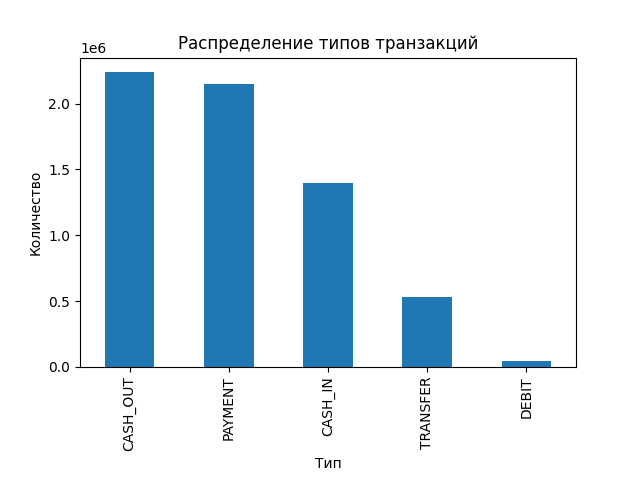
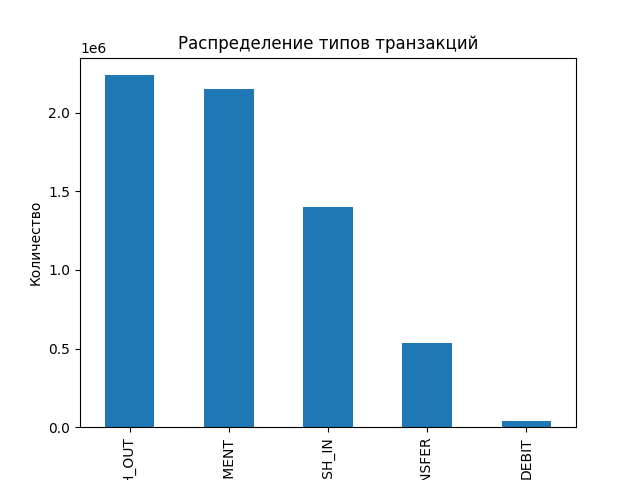
1 finished

diff --git a/TableDataSet/paysim_analysis.py b/TableDataSet/paysim_analysis.py
@@ -4,34 +4,25 @@ import matplotlib.pyplot as plt
 import seaborn as sns
 
 
-# -----------------------------
-# 1. Загрузка данных
-# -----------------------------
 def load_data(path):
     df = pd.read_csv(path)
     print("Размер датасета:", df.shape)
     return df
 
 
-# -----------------------------
-# 2. Статистика (сохранение)
-# -----------------------------
 def statistical_analysis(df):
     stats = df.describe()
-    stats.to_csv("tables/statistics.csv")
+    stats.to_csv("tables/statistics.csv", sep=';')
 
     type_counts = df['type'].value_counts()
-    type_counts.to_csv("tables/type_counts.csv")
+    type_counts.to_csv("tables/type_counts.csv", sep=';')
 
     type_ratio = df['type'].value_counts(normalize=True)
-    type_ratio.to_csv("tables/type_ratio.csv")
+    type_ratio.to_csv("tables/type_ratio.csv", sep=';')
 
     print("\nСтатистика сохранена в tables/")
 
 
-# -----------------------------
-# 3. Распределения (Рисунок 1)
-# -----------------------------
 def plot_feature_distributions(df):
     numeric_cols = [
         'amount',
@@ -53,9 +44,6 @@ def plot_feature_distributions(df):
     plt.show()
 
 
-# -----------------------------
-# 4. Признаки (Рисунок 2)
-# -----------------------------
 def plot_feature_relationships(df):
     # Bar chart
     plt.figure()
@@ -74,9 +62,6 @@ def plot_feature_relationships(df):
     plt.show()
 
 
-# -----------------------------
-# 5. Пропуски (таблица)
-# -----------------------------
 def analyze_missing_values(df):
     missing = df.isnull().sum()
     missing_percent = (missing / len(df)) * 100
@@ -86,19 +71,16 @@ def analyze_missing_values(df):
         'missing_percent': missing_percent
     })
 
-    missing_table.to_csv("tables/missing_values.csv")
+    missing_table.to_csv("tables/missing_values.csv", sep=';')
 
     print("\nТаблица пропусков сохранена")
 
 
-# -----------------------------
-# 6. Корреляция (Рисунок 3)
-# -----------------------------
 def correlation_analysis(df):
     numeric_df = df.select_dtypes(include=['int64', 'float64'])
     corr = numeric_df.corr()
 
-    corr.to_csv("tables/correlation_matrix.csv")
+    corr.to_csv("tables/correlation_matrix.csv", sep=';')
 
     plt.figure(figsize=(10, 6))
     sns.heatmap(corr, annot=True, fmt=".2f")
@@ -107,9 +89,6 @@ def correlation_analysis(df):
     plt.show()
 
 
-# -----------------------------
-# 7. Дубликаты
-# -----------------------------
 def remove_duplicates(df):
     duplicates = df.duplicated().sum()
 
@@ -121,58 +100,47 @@ def remove_duplicates(df):
     return df.drop_duplicates()
 
 
-# -----------------------------
-# 8. Выбросы
-# -----------------------------
 def analyze_outliers(df):
-    plt.figure()
-    plt.boxplot(df['amount'])
-    plt.title('Выбросы amount')
+    numeric_cols = [
+        'amount',
+        'oldbalanceOrg',
+        'newbalanceOrig',
+        'oldbalanceDest',
+        'newbalanceDest'
+    ]
+
+    plt.figure(figsize=(12, 8))
+
+    for i, col in enumerate(numeric_cols, 1):
+        plt.subplot(3, 2, i)
+        plt.boxplot(df[col])
+        plt.title(f'Выбросы {col}')
+
+    plt.tight_layout()
     plt.savefig("plots/figure_4_outliers.png")
     plt.show()
 
-    Q1 = df['amount'].quantile(0.25)
-    Q3 = df['amount'].quantile(0.75)
-    IQR = Q3 - Q1
 
-    outlier_info = pd.DataFrame({
-        'Q1': [Q1],
-        'Q3': [Q3],
-        'IQR': [IQR]
-    })
-
-    outlier_info.to_csv("tables/outliers_info.csv", index=False)
-
-
-# -----------------------------
-# 9. Фильтрация
-# -----------------------------
 def filter_data(df):
     df = df[df['type'].isin(['PAYMENT', 'TRANSFER', 'CASH_OUT'])]
     df = df.drop(['nameOrig', 'nameDest'], axis=1)
 
-    df['type'].value_counts().to_csv("tables/filtered_type_counts.csv")
+    df['type'].value_counts().to_csv("tables/filtered_type_counts.csv", sep=';')
 
     print("\nПосле фильтрации сохранено распределение классов")
 
     return df
 
 
-# -----------------------------
-# 10. Добавление шума
-# -----------------------------
 def add_noise(df):
     noise = np.random.normal(0, 0.01, size=len(df))
     df['amount_noisy'] = df['amount'] * (1 + noise)
 
-    df.head(100).to_csv("tables/sample_with_noise.csv", index=False)
+    df.head(100).to_csv("tables/sample_with_noise.csv", index=False, sep=';')
 
     return df
 
 
-# -----------------------------
-# MAIN
-# -----------------------------
 def main():
     path = 'PS_20174392719_1491204439457_log.csv'
     df = load_data(path)
@@ -189,7 +157,7 @@ def main():
 
     df = filter_data(df)
     df = add_noise(df)
-
+    df.to_csv("output.csv", index=False, sep=';')
 
 if __name__ == "__main__":
     main()
